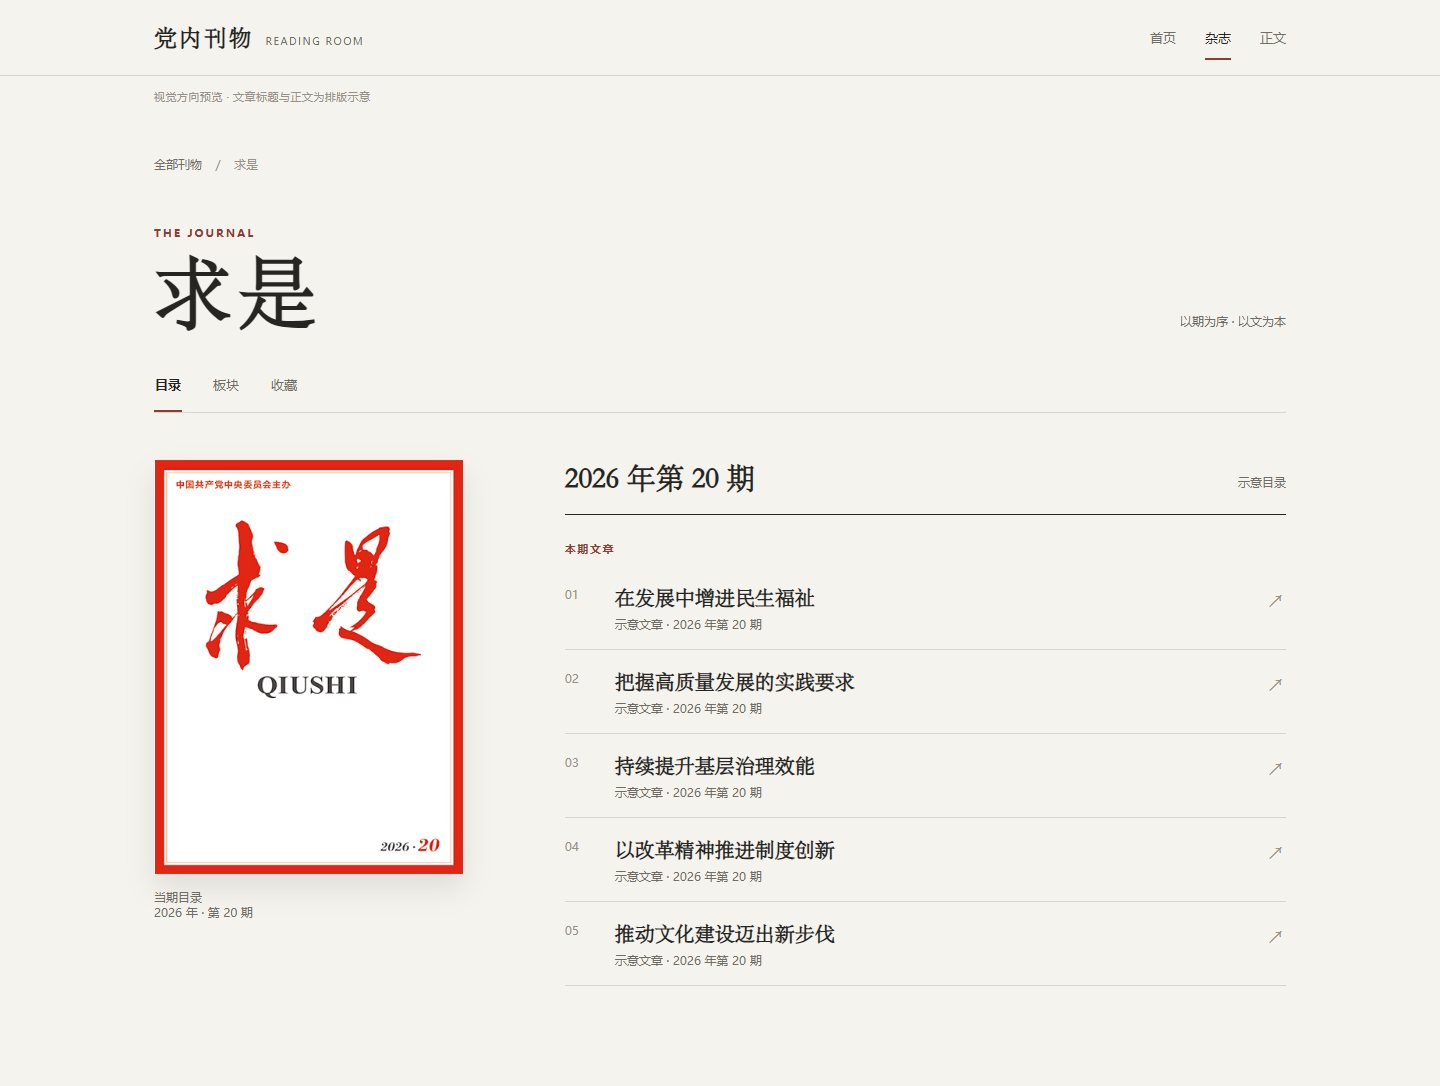
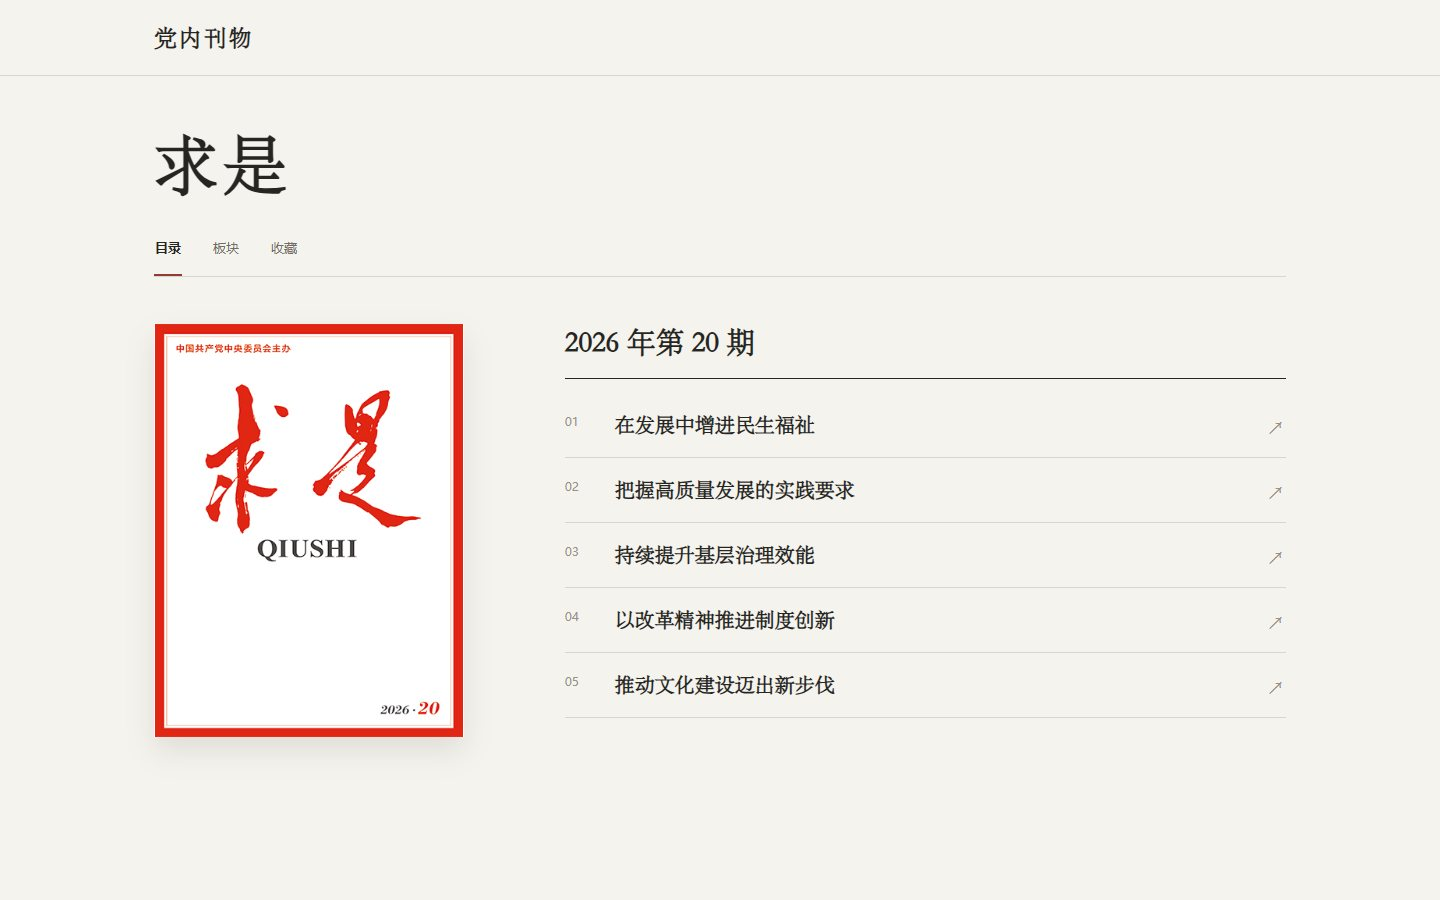
Simplify reading demo navigation and hierarchy

diff --git a/design-demo/index.html b/design-demo/index.html
@@ -15,52 +15,33 @@
     [hidden] { display:none !important; }
     .site-header { border-bottom:1px solid var(--line); background:var(--paper); }
     .site-header-inner { display:flex; align-items:center; justify-content:space-between; gap:20px; max-width:1200px; min-height:75px; margin:auto; padding:0 34px; }
-    .brand { display:flex; align-items:baseline; gap:12px; padding:0; border:0; background:none; color:var(--ink); text-align:left; font-family:var(--serif); font-size:23px; font-weight:700; letter-spacing:.08em; }
-    .brand small { color:var(--muted); font-family:var(--sans); font-size:10px; font-weight:500; letter-spacing:.15em; }
-    .view-tabs { display:flex; align-items:center; gap:29px; }
-    .view-tabs button { min-height:44px; padding:3px 0 0; border:0; border-bottom:2px solid transparent; background:none; color:var(--muted); font-size:13px; }
-    .view-tabs button[aria-current="page"] { border-color:var(--accent); color:var(--ink); }
-    .demo-note { max-width:1200px; margin:0 auto; padding:14px 34px 0; color:var(--faint); font-size:11px; letter-spacing:.04em; }
+    .brand { padding:0; border:0; background:none; color:var(--ink); text-align:left; font-family:var(--serif); font-size:23px; font-weight:700; letter-spacing:.08em; }
     .view { min-height:calc(100vh - 110px); }
-    .home { max-width:1200px; margin:auto; padding:55px 34px 95px; }
-    .eyebrow { margin:0; color:var(--accent); font-size:11px; font-weight:650; letter-spacing:.18em; }
-    .home-heading { display:grid; grid-template-columns:1fr auto 1fr; align-items:center; gap:28px; margin:10px 0 51px; }
-    .home-heading::before,.home-heading::after { content:""; height:1px; background:var(--line); }
-    .home-heading h1 { margin:0; font-family:var(--serif); font-size:clamp(33px,4.2vw,51px); font-weight:600; letter-spacing:.22em; white-space:nowrap; }
-    .home-intro { text-align:center; }
-    .home-intro .eyebrow { color:var(--muted); }
+    .home { max-width:1200px; margin:auto; padding:90px 34px 95px; }
     .shelf { display:grid; grid-template-columns:repeat(3,minmax(0,1fr)); align-items:start; gap:clamp(28px,4vw,56px); max-width:1030px; margin:0 auto; }
     .shelf button { display:block; width:100%; padding:0; border:0; background:none; color:inherit; text-align:left; }
     .cover-frame { display:block; overflow:hidden; padding:11px; border:1px solid #e3ded4; background:#eae6dd; box-shadow:0 13px 27px rgba(38,34,29,.09); transition:transform .26s ease,box-shadow .26s ease; }
     .shelf button:hover .cover-frame,.shelf button:focus-visible .cover-frame { transform:translateY(-5px); box-shadow:0 20px 34px rgba(38,34,29,.13); }
     .cover-frame img { display:block; width:100%; aspect-ratio:3/4; object-fit:contain; background:#fff; }
-    .shelf-label { display:flex; align-items:baseline; justify-content:space-between; gap:8px; padding:17px 1px 0; }
-    .shelf-label strong { font-family:var(--serif); font-size:22px; font-weight:600; }
-    .shelf-label span { color:var(--muted); font-size:11px; }
-    .home-foot { display:flex; align-items:center; justify-content:space-between; gap:20px; max-width:1030px; margin:70px auto 0; padding-top:17px; border-top:1px solid var(--line); color:var(--muted); font-size:12px; }
-    .home-foot button { padding:6px 0; border:0; background:none; color:var(--accent); }
-    .magazine { max-width:1200px; margin:auto; padding:48px 34px 100px; }
+    .magazine { max-width:1200px; margin:auto; padding:54px 34px 100px; }
     .crumb { display:flex; align-items:center; gap:10px; color:var(--muted); font-size:12px; }
     .crumb button { padding:5px 0; border:0; background:none; color:inherit; }
     .crumb span { color:var(--faint); }
-    .mag-head { display:flex; align-items:end; justify-content:space-between; gap:25px; margin:49px 0 23px; }
-    .mag-head h1 { margin:9px 0 0; font-family:var(--serif); font-size:clamp(47px,6vw,78px); font-weight:600; line-height:1.12; letter-spacing:.08em; }
-    .mag-head p:last-child { margin:0 0 7px; color:var(--muted); font-size:12px; }
+    .mag-head { margin:0 0 21px; }
+    .mag-head h1 { margin:0; font-family:var(--serif); font-size:clamp(42px,5vw,64px); font-weight:600; line-height:1.12; letter-spacing:.08em; }
     .mag-tabs { display:flex; gap:30px; border-bottom:1px solid var(--line); }
     .mag-tabs button { min-height:53px; padding:0 1px; border:0; border-bottom:2px solid transparent; background:none; color:var(--muted); font-size:13px; }
     .mag-tabs button.active { border-color:var(--accent); color:var(--ink); font-weight:650; }
     .issue-layout { display:grid; grid-template-columns:minmax(220px,310px) minmax(0,1fr); gap:clamp(55px,7vw,112px); padding-top:47px; }
     .issue-aside img { display:block; width:100%; aspect-ratio:3/4; object-fit:contain; background:#fff; box-shadow:0 14px 28px rgba(37,34,30,.1); }
-    .issue-aside p { margin:16px 0 0; color:var(--muted); font-size:12px; }
     .issue-topline { display:flex; align-items:baseline; justify-content:space-between; gap:15px; padding-bottom:16px; border-bottom:1px solid var(--ink); }
     .issue-topline h2 { margin:0; font-family:var(--serif); font-size:29px; font-weight:600; }
-    .issue-topline span { color:var(--muted); font-size:12px; }
-    .issue-section { margin:27px 0 10px; color:var(--accent); font-size:11px; font-weight:650; letter-spacing:.14em; }
+    .issue-main { min-width:0; }
+    #issueRows { margin-top:14px; }
     .issue-row { display:grid; grid-template-columns:40px minmax(0,1fr) 20px; align-items:start; gap:10px; width:100%; padding:17px 0; border:0; border-bottom:1px solid var(--line); background:none; color:var(--ink); text-align:left; }
     .issue-row:hover strong,.issue-row:focus-visible strong { color:var(--accent); }
     .issue-row .num { padding-top:4px; color:var(--faint); font-size:12px; }
     .issue-row strong { display:block; font-family:var(--serif); font-size:20px; font-weight:600; line-height:1.5; }
-    .issue-row small { display:block; margin-top:4px; color:var(--muted); font-size:12px; }
     .issue-row .arrow { padding-top:5px; color:var(--faint); font-size:19px; }
     .reading { background:var(--surface); padding-bottom:130px; }
     .reading-head { max-width:900px; margin:auto; padding:58px 28px 50px; border-bottom:1px solid var(--line); }
@@ -92,23 +73,12 @@
       .site-header-inner { min-height:62px; padding:0 18px; }
       .brand { font-size:18px; }
       .brand small { display:none; }
-      .view-tabs { gap:14px; }
-      .view-tabs button { font-size:12px; }
-      .demo-note { padding:10px 18px 0; }
-      .home { padding:36px 20px 70px; }
-      .home-heading { gap:10px; margin-bottom:36px; }
-      .home-heading h1 { font-size:31px; letter-spacing:.11em; }
+      .home { padding:42px 20px 70px; }
       .shelf { grid-template-columns:minmax(0,340px); justify-content:center; gap:44px; }
-      .shelf-label strong { font-size:20px; }
-      .home-foot { display:block; margin-top:48px; text-align:center; }
-      .magazine { padding:25px 20px 70px; }
-      .mag-head { margin-top:34px; }
-      .mag-head h1 { font-size:49px; }
-      .mag-head p:last-child { display:none; }
-      .issue-layout { grid-template-columns:1fr; gap:40px; padding-top:30px; }
-      .issue-aside { display:flex; align-items:center; gap:20px; }
-      .issue-aside img { width:132px; flex:none; }
-      .issue-aside p { margin:0; line-height:1.7; }
+      .magazine { padding:36px 20px 70px; }
+      .mag-head h1 { font-size:44px; }
+      .issue-layout { grid-template-columns:1fr; padding-top:30px; }
+      .issue-aside { display:none; }
       .issue-topline h2 { font-size:24px; }
       .issue-row strong { font-size:17px; }
       .reading-head { padding:35px 22px 31px; }
@@ -123,40 +93,29 @@
 <body>
   <header class="site-header">
     <div class="site-header-inner">
-      <button class="brand" type="button" data-view="home">党内刊物 <small>READING ROOM</small></button>
-      <nav class="view-tabs" aria-label="设计预览页面">
-        <button type="button" data-view="home" aria-current="page">首页</button>
-        <button type="button" data-view="magazine">杂志</button>
-        <button type="button" data-view="reading">正文</button>
-      </nav>
+      <button class="brand" type="button" data-view="home" aria-label="返回网站首页">党内刊物</button>
     </div>
   </header>
-  <div class="demo-note">视觉方向预览 · 文章标题与正文为排版示意</div>
-
   <main>
     <section class="view home" id="homeView" aria-label="首页预览">
-      <div class="home-intro"><p class="eyebrow">THREE JOURNALS</p></div>
-      <div class="home-heading"><h1>三刊阅读</h1></div>
       <div class="shelf">
-        <button type="button" data-mag="qs" aria-label="浏览求是"><span class="cover-frame"><img src="../assets/img/cover_qs.jpg" alt="求是刊物封面"></span><span class="shelf-label"><strong>求是</strong><span>进入刊物 ↗</span></span></button>
-        <button type="button" data-mag="hqwg" aria-label="浏览红旗文稿"><span class="cover-frame"><img src="../assets/img/cover_hqwg.jpg" alt="红旗文稿刊物封面"></span><span class="shelf-label"><strong>红旗文稿</strong><span>进入刊物 ↗</span></span></button>
-        <button type="button" data-mag="djyj" aria-label="浏览党建研究"><span class="cover-frame"><img src="../assets/img/cover_djyj.jpg" alt="党建研究刊物封面"></span><span class="shelf-label"><strong>党建研究</strong><span>进入刊物 ↗</span></span></button>
+        <button type="button" data-mag="qs" aria-label="浏览求是"><span class="cover-frame"><img src="../assets/img/cover_qs.jpg" alt="求是刊物封面"></span></button>
+        <button type="button" data-mag="hqwg" aria-label="浏览红旗文稿"><span class="cover-frame"><img src="../assets/img/cover_hqwg.jpg" alt="红旗文稿刊物封面"></span></button>
+        <button type="button" data-mag="djyj" aria-label="浏览党建研究"><span class="cover-frame"><img src="../assets/img/cover_djyj.jpg" alt="党建研究刊物封面"></span></button>
       </div>
-      <div class="home-foot"><span>按刊物与期号阅读</span><button type="button" id="homeBrowse">浏览本期目录　↗</button></div>
     </section>
 
     <section class="view magazine" id="magazineView" aria-label="杂志页预览" hidden>
-      <div class="crumb"><button type="button" data-view="home">全部刊物</button><span>／</span><span id="crumbMag">求是</span></div>
-      <div class="mag-head"><div><p class="eyebrow">THE JOURNAL</p><h1 id="magTitle">求是</h1></div><p>以期为序 · 以文为本</p></div>
+      <div class="mag-head"><h1 id="magTitle">求是</h1></div>
       <div class="mag-tabs"><button type="button" class="active" data-mag-tab="catalog">目录</button><button type="button" data-mag-tab="section">板块</button><button type="button" data-mag-tab="saved">收藏</button></div>
       <div class="issue-layout">
-        <aside class="issue-aside"><img id="magCover" src="../assets/img/cover_qs.jpg" alt="求是封面"><p id="magAside">当期目录<br>2026 年 · 第 20 期</p></aside>
-        <div class="issue-main"><div class="issue-topline"><h2 id="issueHeading">2026 年第 20 期</h2><span>示意目录</span></div><p class="issue-section" id="issueSection">本期文章</p><div id="issueRows"></div></div>
+        <aside class="issue-aside"><img id="magCover" src="../assets/img/cover_qs.jpg" alt="求是封面"></aside>
+        <div class="issue-main"><div class="issue-topline"><h2 id="issueHeading">2026 年第 20 期</h2></div><div id="issueRows"></div></div>
       </div>
     </section>
 
     <section class="view reading" id="readingView" aria-label="正文页预览" hidden>
-      <div class="reading-head"><div class="crumb"><button type="button" data-view="magazine" id="readingBack">求是</button><span>／</span><span>2026 年第 20 期</span></div><p class="eyebrow">示意文章 · 阅读版式</p><h1 id="articleTitle">在发展中增进民生福祉</h1><div class="reading-meta"><span id="articleSource">求是 · 2026 年第 20 期</span><span>阅读约 6 分钟</span></div></div>
+      <div class="reading-head"><div class="crumb"><button type="button" data-view="magazine" id="readingBack">← 求是 · 2026 年第 20 期</button></div><h1 id="articleTitle">在发展中增进民生福祉</h1><div class="reading-meta"><span>阅读约 6 分钟</span></div></div>
       <article class="prose" id="prose">
         <p class="editor-note">以下文字仅用于展示行宽、段距和标题层级，不对应正式刊物文章。</p>
         <p>阅读一篇文章，需要的是安静而稳定的节奏。标题引出主题，期号说明出处，正文以清楚的层级展开。页面不应反复提醒读者工具在哪里，而应让注意力自然落在文字上。</p>
@@ -183,14 +142,13 @@
     let activeMag='qs', articleIndex=0, activeTab='catalog', fontSize=20;
     const $=id=>document.getElementById(id);
     function closePanels(){ $('tocPanel').hidden=true; $('settingsPanel').hidden=true; for(const id of ['tocToggle','settingsToggle']) {$(id).classList.remove('active');$(id).setAttribute('aria-expanded','false');} }
-    function showView(view){ for(const [name,id] of [['home','homeView'],['magazine','magazineView'],['reading','readingView']]) $(id).hidden=name!==view; document.querySelectorAll('[data-view]').forEach(b=>{if(b.closest('.view-tabs')) b.setAttribute('aria-current',b.dataset.view===view?'page':'false');}); closePanels(); window.scrollTo(0,0); }
-    function setMagazine(key){ activeMag=key; articleIndex=0; activeTab='catalog'; document.querySelectorAll('[data-mag-tab]').forEach(b=>b.classList.toggle('active',b.dataset.magTab==='catalog')); const m=magazines[key]; $('magTitle').textContent=m.name; $('crumbMag').textContent=m.name; $('magCover').src=m.cover; $('magCover').alt=m.name+'封面'; $('magAside').innerHTML='当期目录<br>'+m.issue.replace('第',' · 第'); renderRows(); renderToc(); showView('magazine'); }
-    function renderRows(){ const m=magazines[activeMag]; const choices=activeTab==='catalog'?[0,1,2,3,4]:activeTab==='section'?[0,2,4]:[1,3]; $('issueHeading').textContent=activeTab==='catalog'?m.issue:activeTab==='section'?'板块':'我的收藏'; $('issueSection').textContent=activeTab==='catalog'?'本期文章':activeTab==='section'?'理论文章':'示意收藏'; $('issueRows').replaceChildren(); choices.forEach(i=>{const title=m.rows[i];const b=document.createElement('button'); b.type='button';b.className='issue-row';b.innerHTML='<span class="num">'+String(i+1).padStart(2,'0')+'</span><span><strong></strong><small>示意文章 · '+m.issue+'</small></span><span class="arrow">↗</span>';b.querySelector('strong').textContent=title;b.addEventListener('click',()=>openArticle(i));$('issueRows').append(b);}); }
+    function showView(view){ for(const [name,id] of [['home','homeView'],['magazine','magazineView'],['reading','readingView']]) $(id).hidden=name!==view; closePanels(); window.scrollTo(0,0); }
+    function setMagazine(key){ activeMag=key; articleIndex=0; activeTab='catalog'; document.querySelectorAll('[data-mag-tab]').forEach(b=>b.classList.toggle('active',b.dataset.magTab==='catalog')); const m=magazines[key]; $('magTitle').textContent=m.name; $('magCover').src=m.cover; $('magCover').alt=m.name+'封面'; renderRows(); renderToc(); showView('magazine'); }
+    function renderRows(){ const m=magazines[activeMag]; const choices=activeTab==='catalog'?[0,1,2,3,4]:activeTab==='section'?[0,2,4]:[1,3]; $('issueHeading').textContent=activeTab==='catalog'?m.issue:activeTab==='section'?'板块':'我的收藏'; $('issueRows').replaceChildren(); choices.forEach(i=>{const title=m.rows[i];const b=document.createElement('button'); b.type='button';b.className='issue-row';b.innerHTML='<span class="num">'+String(i+1).padStart(2,'0')+'</span><strong></strong><span class="arrow">↗</span>';b.querySelector('strong').textContent=title;b.addEventListener('click',()=>openArticle(i));$('issueRows').append(b);}); }
     function renderToc(){ $('tocRows').replaceChildren(); magazines[activeMag].rows.forEach((title,i)=>{const b=document.createElement('button');b.type='button';b.className='panel-row';b.textContent=String(i+1).padStart(2,'0')+'　'+title;b.addEventListener('click',()=>openArticle(i));$('tocRows').append(b);}); }
-    function openArticle(i){ articleIndex=i;const m=magazines[activeMag];$('articleTitle').textContent=m.rows[i];$('articleSource').textContent=m.name+' · '+m.issue;$('readingBack').textContent=m.name;showView('reading'); }
+    function openArticle(i){ articleIndex=i;const m=magazines[activeMag];$('articleTitle').textContent=m.rows[i];$('readingBack').textContent='← '+m.name+' · '+m.issue;showView('reading'); }
     document.querySelectorAll('[data-view]').forEach(b=>b.addEventListener('click',()=>showView(b.dataset.view)));
     document.querySelectorAll('[data-mag]').forEach(b=>b.addEventListener('click',()=>setMagazine(b.dataset.mag)));
-    $('homeBrowse').addEventListener('click',()=>setMagazine('qs'));
     document.querySelectorAll('[data-mag-tab]').forEach(b=>b.addEventListener('click',()=>{activeTab=b.dataset.magTab;document.querySelectorAll('[data-mag-tab]').forEach(x=>x.classList.toggle('active',x===b));renderRows();}));
     $('tocToggle').addEventListener('click',()=>{const open=$('tocPanel').hidden;closePanels();$('tocPanel').hidden=!open;$('tocToggle').classList.toggle('active',open);$('tocToggle').setAttribute('aria-expanded',String(open));});
     $('settingsToggle').addEventListener('click',()=>{const open=$('settingsPanel').hidden;closePanels();$('settingsPanel').hidden=!open;$('settingsToggle').classList.toggle('active',open);$('settingsToggle').setAttribute('aria-expanded',String(open));});

diff --git a/design-demo/README.md b/design-demo/README.md
@@ -1,6 +1,6 @@
 # 三刊阅读视觉方向预览
 
-这是独立于正式站点的交互示意。打开 `index.html` 可切换首页、杂志页与正文页。封面使用项目现有图片；文章标题、正文和收藏列表只用于展示排版，并非正式刊物数据。
+这是独立于正式站点的交互示意。打开 `index.html`，点击封面进入杂志目录，再点击文章进入正文；站点名称返回首页，正文出处返回杂志目录。封面使用项目现有图片；文章标题、正文和收藏列表只用于展示排版，并非正式刊物数据。
 
 桌面预览：[首页](previews/demo-home.jpg) · [杂志页](previews/demo-magazine.jpg) · [正文页](previews/demo-reading.jpg)；手机预览：[首页](previews/demo-mobile-home.jpg) · [正文页](previews/demo-mobile-reading.jpg)。
 
@@ -19,13 +19,13 @@
 
 ## 建议采用的方向
 
-**当代期刊书架**：首页让三本完整封面承担主视觉；杂志页用大刊名、当期封面和连续文章索引形成清楚的层次；正文页保持单栏阅读，工具收进轻面板。全站使用系统字体与相同的纸色、墨色、细线和小幅暗红点缀。
+**当代期刊书架**：首页仅用三本完整封面承担主视觉；杂志页用刊名、期号和连续文章索引形成清楚的层次，桌面保留当期封面，手机直接进入目录；正文页保持单栏阅读，工具收进轻面板。全站使用系统字体与相同的纸色、墨色、细线和小幅暗红点缀。
 
 优先改变布局秩序和间距，不增加装饰。尤其要控制正文行宽、封面比例与目录密度。正式实现时沿用现有数据、搜索、收藏、离线与 GitHub/Cloudflare Pages 部署结构，逐页替换样式和必要交互即可。
 
 ## Demo 范围
 
-- 三页可切换，首页封面可进入对应刊物。
+- 首页封面进入对应刊物，目录文章进入正文；顶部没有独立的“正文”导航入口。
 - 杂志页可切换目录、板块和收藏示意列表，文章行可进入阅读页。
 - 阅读页可切换目录、字号和纸张底色，并可进入下一篇示意文章。
 - 手机与桌面使用同一份 HTML/CSS；无框架、无远程字体或运行时依赖。

diff --git a/HANDOFF.md b/HANDOFF.md
@@ -1,5 +1,24 @@
 # 交接记录
 
+## 2026-11-01：精简独立 demo 的重复元素与导航
+
+### 当前任务与已完成
+
+用户指出 demo 首页和杂志目录有大量重复元素，且“正文”不应出现在顶部导航。已直接修改 `design-demo/index.html`：首页只留站点名与三本完整封面；去掉标题、英文副标题、封面下重复刊名与底部引导；杂志页仅保留一次刊名、一次期号及文章列表，去掉重复的面包屑、期号注释和每行出处；移除顶部首页/杂志/正文预览切页导航。实际路径为封面 → 杂志目录 → 文章，站点名返回首页，文章出处返回杂志目录。手机杂志页省去再次展示封面，让目录更早出现。同步更新 README 与预览图。
+
+### 验收、卡点和下一步
+
+- Playwright 单次脚本检查：设置面板打开、字号调到 22px、正文目录第二篇可跳转、390px 手机无水平溢出；重拍并检查首页、杂志页、正文页的桌面与手机截图。内联 JS `node --check`、CSS `tinycss2` 和封面路径检查通过。
+- 正式站点尚未改造；demo 的内容仍是示意，真实站点登录门与本地浏览器限制同下文。下一步若用户认可新版 demo，再按此路径接入正式站点。
+- 本轮新版 demo 与交接文档通过 GitHub `main` 同步，交付时核对本地与远端提交号。
+
+### 踩过的坑
+
+- 预览用的顶部切页导航会被误认为正式网站结构，因此 demo 应让用户按实际阅读路径操作，不能增加仅为演示方便而在产品中不存在的入口。
+- 手机杂志页若同时显示刊名、大封面和期号，文章列表会被推到首屏以下；此次在手机端保留首页封面，进入刊物后直接显示目录。
+
+---
+
 ## 2026-11-01：网站视觉方向调研与独立 demo
 
 ### 当前任务
